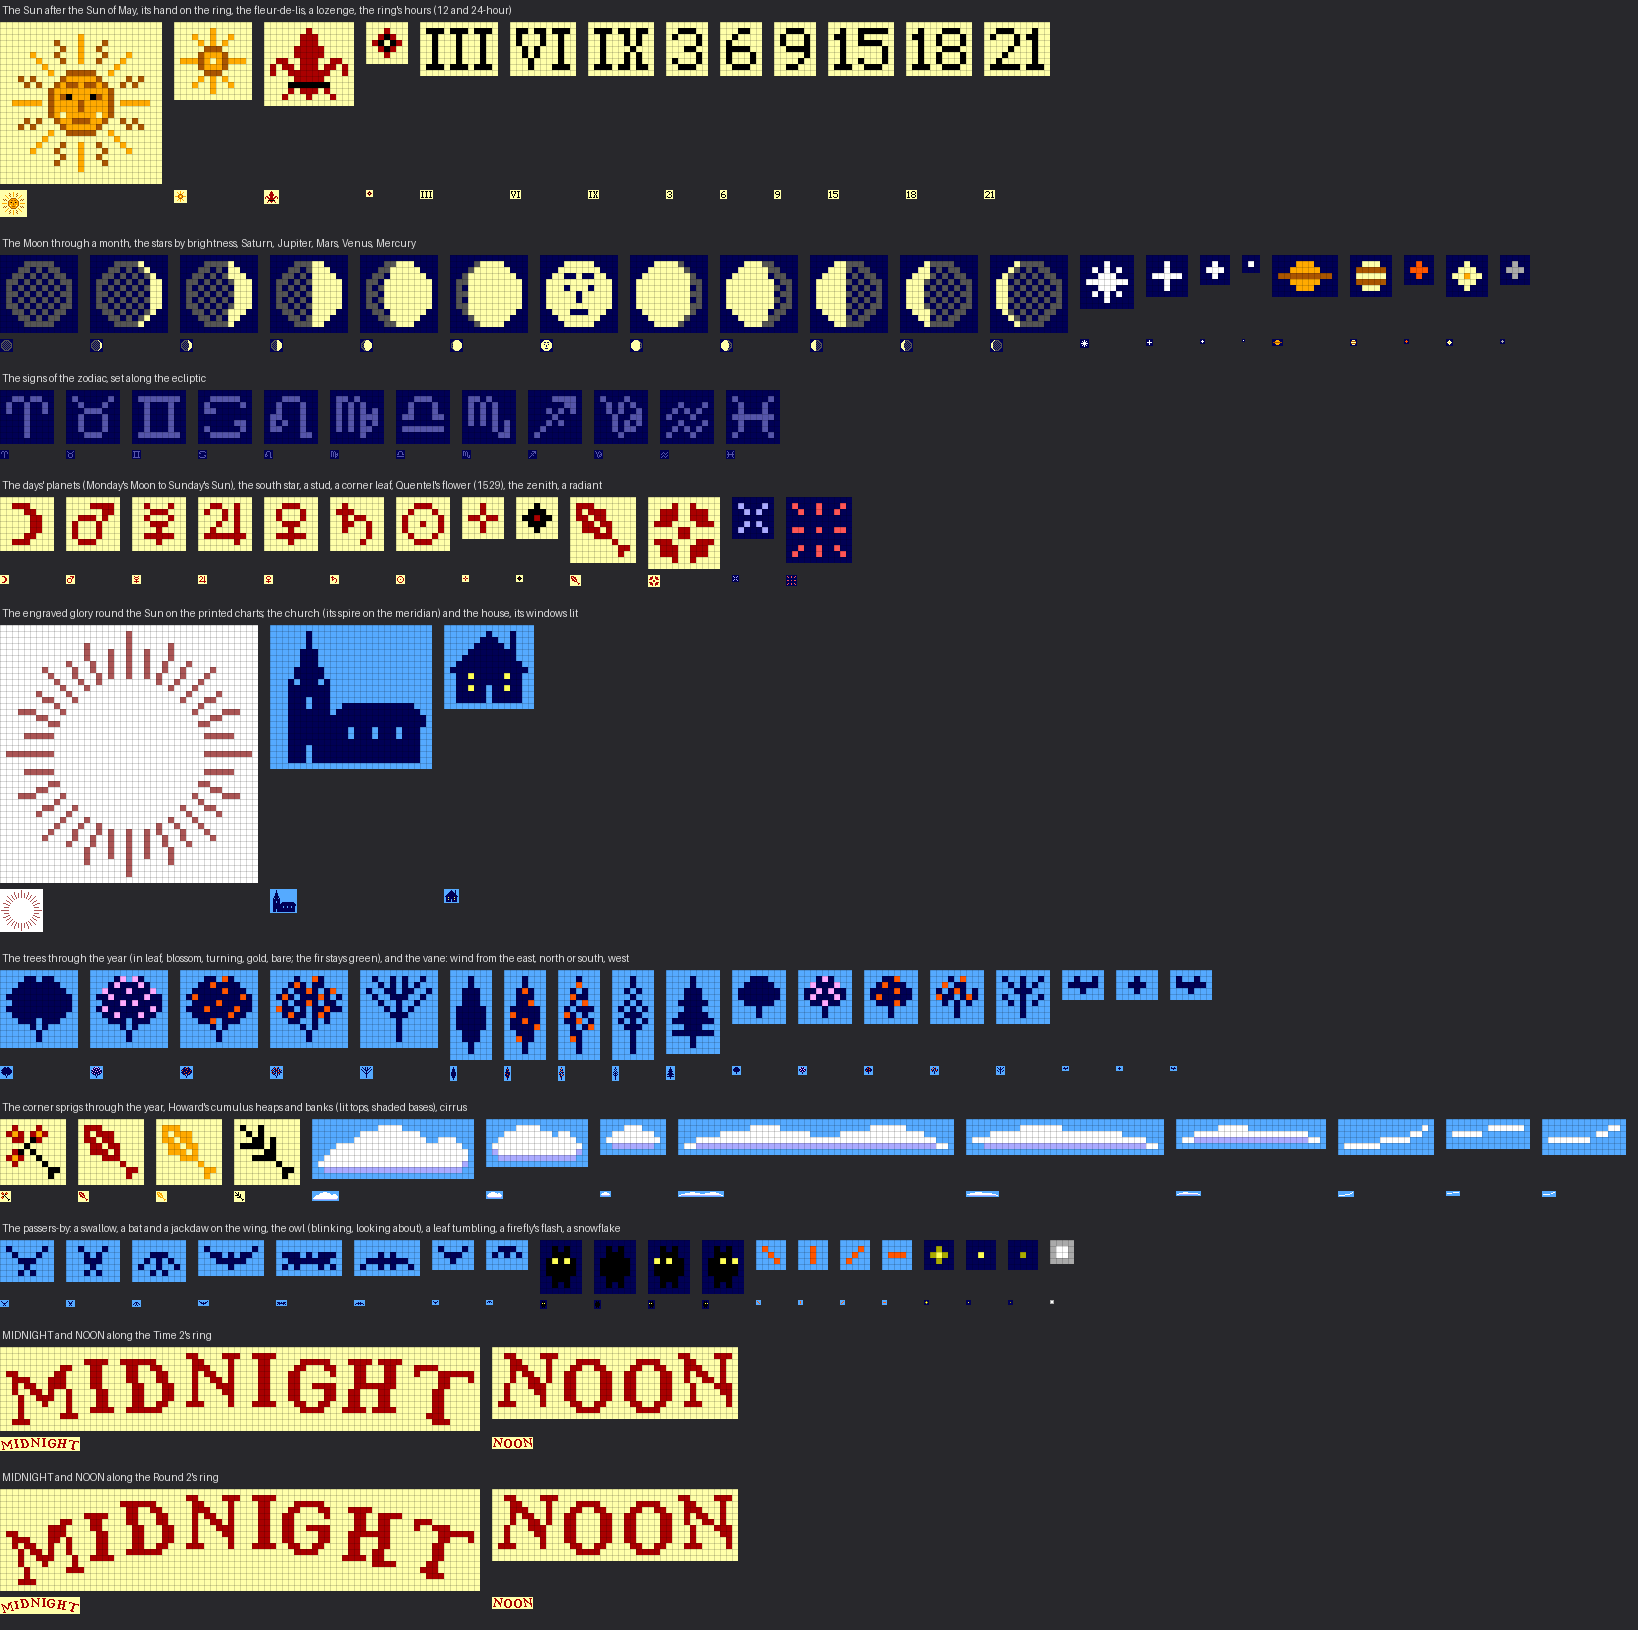
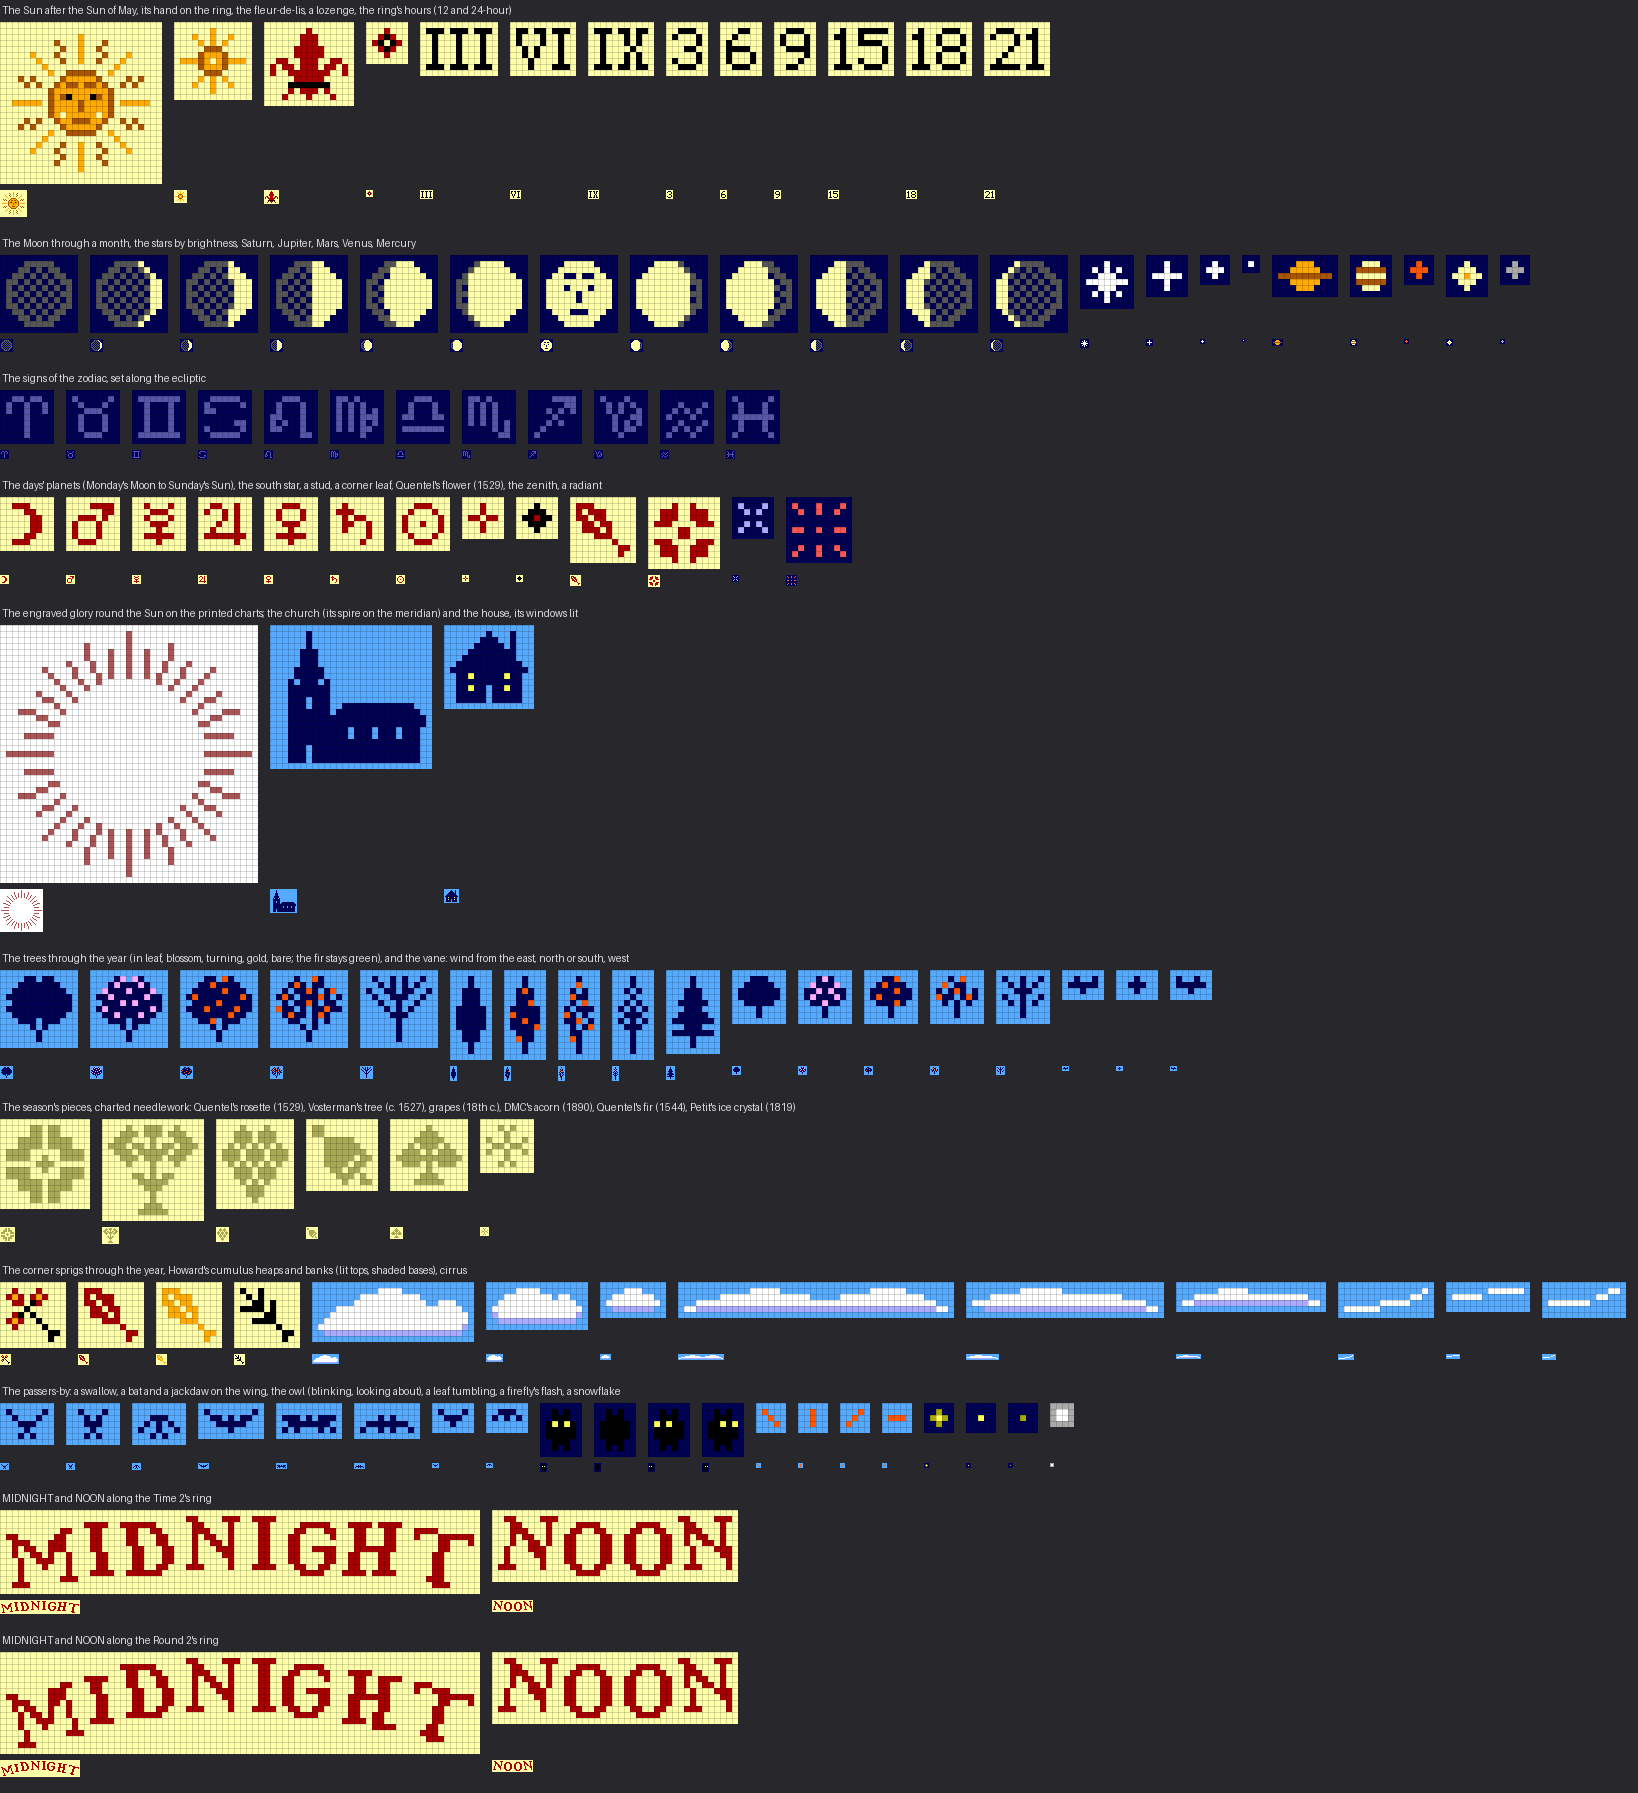
The season's pieces: charted needlework in the window's shoulders
The cream between the window and the ring now holds a pair of pieces, one
each side, where that space has most room. The spot is found by rule
rather than placed: below the almanac's lines, clear of the ring's rule,
the studs, the window's rims and its ornaments, on the left and mirrored
on the right. It depends only on the watch, so the pieces never move.
The pieces are charted needlework copied stitch for stitch from the
library:
- spring: Quentel's blossom rosette (1529);
- summer: Vosterman's tree in leaf (c. 1527);
- September: a German sampler's grapes (18th century);
- October and November: DMC's acorn (Dillmont, 1890);
- winter: Quentel's fir (1544), with the band's own stitches for its
  trunk and foot;
- in snow or frost: the Petit necessaire's ice crystal (1819).
They are worked in the card's quiet tone, the ring hatching's, so they
sit back like whitework while the time and the almanac stay foremost. In
red they were too loud beside the flowers and the fleur.

Changed region(s): [[0.0, 0.0, 0.9963, 1.0]]

diff --git a/proto/sprites.py b/proto/sprites.py
@@ -385,6 +385,93 @@ QUENTEL_FLOWER = art([
     "...R..R...",
 ])
 
+# ---- the season's pieces: charted needlework from research/needlework/, stitch for stitch, set as a pair in the
+# cream between the window and the ring, one each side, worked in the card's quiet tone. The season's piece, or
+# the weather's when there is snow or frost
+NEEDLEWORK = {
+    "rosette": (["....##.##....",       # spring, the blossom: Quentel, Eyn New Kunstlichboich, Cologne 1529
+                 "....##.##....",
+                 "..####.####..",
+                 "..####.####..",
+                 "####.....####",
+                 "####..#..####",
+                 ".....###.....",
+                 "####..#..####",
+                 "####.....####",
+                 "..####.####..",
+                 "..####.####..",
+                 "....##.##....",
+                 "....##.##...."], "quentel1529-rosette-13"),
+    "tree": (["...#..###..#...",        # summer, a tree in leaf: Vosterman, Antwerp c. 1527 (and Quentel 1529)
+              "..###.###.###..",
+              ".###...#...###.",
+              "###.##.#.##.###",
+              ".###.#####.###.",
+              "..###.###.###..",
+              "...#...#...#...",
+              ".......#.......",
+              "....##.#.##....",
+              ".....#####.....",
+              "......###......",
+              ".......#.......",
+              ".......#.......",
+              "......###......",
+              ".....#####....."], "vosterman1527-leafy-tree-15"),
+    "grapes": (["...#...#...",          # the vintage: a German sampler of the 18th century (Cooper Hewitt)
+                "..###.###..",
+                "..###.###..",
+                ".#.#.#.#.#.",
+                "###.###.###",
+                "###.###.###",
+                ".#.#.#.#.#.",
+                "..###.###..",
+                "..###.###..",
+                "...#.#.#...",
+                "....###....",
+                "....###....",
+                ".....#....."], "ch-18616709-grape-bunch"),
+    "acorn": (["##........",           # autumn, an acorn on its twig: DMC's album, Dillmont 1890
+               "##........",
+               "..#####...",
+               "..######..",
+               "..#######.",
+               "..#####.##",
+               "..####.##.",
+               "...##.##..",
+               "....###.#.",
+               ".....#..##"], "dmc1890-acorn-10"),
+    "fir": ([".....#.....",           # winter, a fir: Quentel's band of firs, Cologne 1544, with the band's own
+             "....###....",           # stitches beneath it for its trunk and stepped foot
+             "...#####...",
+             "..#.###.#..",
+             ".###.#.###.",
+             "###########",
+             ".###.#.###.",
+             ".....#.....",
+             "....###....",
+             "...#####..."], "quentel1544-fir-band"),
+    "ice": (["..#.#..",               # snow or frost, an ice crystal: Petit necessaire des jeunes demoiselles,
+             "...#...",               # Paris 1819
+             "#..#..#",
+             ".##.##.",
+             "#..#..#",
+             "...#...",
+             "..#.#.."], "petit1819-snowflake-7"),
+}
+SEASON_PIECE = {"blossom": "rosette", "leaf": "tree", "harvest": "tree", "turning": "grapes", "autumn": "acorn",
+                "bare": "fir"}
+
+
+def needlework(name):
+    rows, _ = NEEDLEWORK[name]
+    return np.array([[c == "#" for c in r] for r in rows])
+
+
+def season_piece(season, snow=False, frost=False):
+    """The pair's piece: the ice crystal in snow or frost, else the season's."""
+    return "ice" if (snow or frost) else SEASON_PIECE.get(season, "rosette")
+
+
 # ---- small marks: the south point's star, the studs on the ring at every third hour, a meteor shower's radiant
 SOUTH_STAR = art([
     "..R..",
@@ -1043,6 +1130,7 @@ if __name__ == "__main__":
                    "poplar:autumn", "poplar:bare", "fir", "small", "small:blossom", "small:turning", "small:autumn",
                    "small:bare")]
         + [block(art([r.replace("#", "K") for r in VANE[k]]), {1: (0, 0, 85)}, (85, 170, 255)) for k in ("left", "end", "right")],
+        [mask_block(needlework(k), (170, 170, 85), cream) for k in ("rosette", "tree", "grapes", "acorn", "fir", "ice")],
         [block(CORNER_SEASONS[k], gold, cream) for k in ("blossom", "leaf", "autumn", "bare")]
         + [block(cloud(c), {1: (255, 255, 255), 5: (255, 255, 255), 7: (170, 170, 255)}, (85, 170, 255))
            for c in CUMULUS + STRATUS]
@@ -1061,6 +1149,7 @@ if __name__ == "__main__":
               "The days' planets (Monday's Moon to Sunday's Sun), the south star, a stud, a corner leaf, Quentel's flower (1529), the zenith, a radiant",
               "The engraved glory round the Sun on the printed charts; the church (its spire on the meridian) and the house, its windows lit",
               "The trees through the year (in leaf, blossom, turning, gold, bare; the fir stays green), and the vane: wind from the east, north or south, west",
+              "The season's pieces, charted needlework: Quentel's rosette (1529), Vosterman's tree (c. 1527), grapes (18th c.), DMC's acorn (1890), Quentel's fir (1544), Petit's ice crystal (1819)",
               "The corner sprigs through the year, Howard's cumulus heaps and banks (lit tops, shaded bases), cirrus",
               "The passers-by: a swallow, a bat and a jackdaw on the wing, the owl (blinking, looking about), a leaf tumbling, a firefly's flash, a snowflake",
               "MIDNIGHT and NOON along the Time 2's ring", "MIDNIGHT and NOON along the Round 2's ring"]

diff --git a/proto/plates.py b/proto/plates.py
@@ -489,6 +489,26 @@ def real_range(dial, edge_, sky, most=2.0, room=12.0, least=3.0):
         return None
     return {dx: int(round(v * mag)) for dx, v in true.items()}
 
+def shoulder_spot(dial, inside, inner, below, fleur_box):
+    """Where the season's pieces go: the point of the cream between the window and the ring with most room round
+    it, below the almanac's lines and clear of the rules, the window's rims and its ornaments, on the left (the
+    right is its mirror). (x, y, room in pixels); the same at every hour, so kept."""
+    key = (int(below), fleur_box)
+    cache = dial.__dict__.setdefault("_shoulders", {})
+    if key not in cache:
+        H, W = inner.shape
+        free = inner & ~grow(~inner, 4) & ~grow(inside, 6)
+        free[: int(below)] = False
+        x0, y0, x1, y1 = fleur_box
+        free[max(0, y0 - 3): y1 + 3, max(0, x0 - 3): x1 + 3] = False
+        room = clear_distance(~free, most=16)
+        left = room.copy()
+        left[:, int(dial.cx) - 2:] = 0
+        j, i = np.unravel_index(np.argmax(left), left.shape)
+        cache[key] = (int(i), int(j), int(left[j, i]))
+    return cache[key]
+
+
 _WIDEST = {}
 
 
@@ -1291,6 +1311,22 @@ def render(when, dial, sky, tz, plate="planisphere", round_screen=True, clock24=
     fits = [m for m in lines_ if m.shape[1] <= room_]
     if fits:
         stamp(img, fits[0], dial.cx, ring_in + span * rows_at[2], P["accent"])
+
+    # the season's pieces, charted needlework stitch for stitch, a pair in the cream between the window and the
+    # ring, one each side, mirrored, worked in the card's own quiet tone (the hatching's) so they sit back like
+    # whitework: the season's emblem, or an ice crystal in snow or frost
+    piece = sprites.season_piece(season, snow=wsky is not None and wsky.snow_lying,
+                                 frost=wsky is not None and wsky.frost)
+    art_ = sprites.needlework(piece)
+    sx_, sy_, sroom = shoulder_spot(dial, inside, inner, ring_in + span * rows_at[2] + 7,
+                                    (fx0, fy0, fx0 + fl.shape[1], fy0 + fl.shape[0]))
+    if max(art_.shape) / 2 + 1 <= sroom:
+        for side, a_ in ((-1, art_), (1, art_[:, ::-1])):
+            cx_ = sx_ if side < 0 else W - 1 - sx_
+            x0_, y0_ = int(round(cx_ - (a_.shape[1] - 1) / 2)), int(round(sy_ - (a_.shape[0] - 1) / 2))
+            for j, i in zip(*np.nonzero(a_)):
+                if 0 <= y0_ + j < H and 0 <= x0_ + i < W:
+                    img[y0_ + j, x0_ + i] = tint_of(P)
     if round_screen:
         img[np.hypot(xx + 0.5 - dial.cx, yy + 0.5 - dial.cy) > W / 2] = 0
     return nearest(img)

diff --git a/README.md b/README.md
@@ -121,6 +121,13 @@ The village keeps the year, as an almanac's cuts of the months do. The season co
 - The trees come into blossom in April, stand in full leaf through the summer, turn gold in October and stand bare through the winter. The firs stay green.
 - The house's windows are lit of an evening.
 - The Time 2's corner sprigs follow the season.
+- In the cream between the window and the ring, one each side where there is most room, stands a pair of the season's pieces. They are charted needlework, copied stitch for stitch from the pattern books and samplers in `research/needlework/`, and worked in the card's own quiet tone so they sit back:
+  - spring: Quentel's blossom rosette (Cologne, 1529);
+  - summer: a tree in leaf from Vosterman's book (Antwerp, c. 1527);
+  - September: a bunch of grapes from an 18th-century German sampler;
+  - October and November: an acorn from Dillmont's DMC album (1890);
+  - winter: a fir from Quentel's band of firs (1544);
+  - in snow or frost, whatever the season: the ice crystal from the *Petit nécessaire des jeunes demoiselles* (Paris, 1819).
 
 ![The year at eleven in the morning: blossom in April, leaf in July, gold in October, snow in January; below, the village up close: blossom, high summer, autumn leaves, frost and snow; a frosty evening with chimney smoke and lit windows, fog, a summer gale, a snowy night](docs/seasons.png)
 
@@ -269,6 +276,6 @@ Next: the same drawing in C for the watch, with the pieces and the stars as smal
 
 Star positions and colours, constellation lines and the Milky Way's outline come from [d3-celestial](https://github.com/ofrohn/d3-celestial), © 2015 Olaf Frohn, BSD 3-Clause (`data/`). The numerals use the monoline stroke font made for Morphogen 9.
 
-Quentel's flower is transcribed from *Eyn New Kunstlich Boich* (Peter Quentel, Cologne, 1529) in the Metropolitan Museum of Art's Open Access collection (CC0, 20.50.2).
+Quentel's flower is transcribed from *Eyn New Kunstlich Boich* (Peter Quentel, Cologne, 1529) in the Metropolitan Museum of Art's Open Access collection (CC0, 20.50.2). The season's pieces come from the same book and from Quentel's book of 1544 and Vosterman's of c. 1527 (the Met, CC0), a German sampler (Cooper Hewitt, public domain), Dillmont's DMC album of 1890 and the *Petit nécessaire* of 1819 (archive.org, public domain); `research/needlework/sources.md` gives every source.
 
 Pixel type: Not Jam Old Style 11 by Not Jam (CC0, `fonts/pixel/`). Type: Old Standard TT (Alexey Kryukov), Libre Caslon Text, Playfair Display, with IM Fell, EB Garamond and Cinzel tried in [the type specimen](docs/type-specimen.png). All are SIL Open Font License 1.1, and the licences are in `fonts/`.
